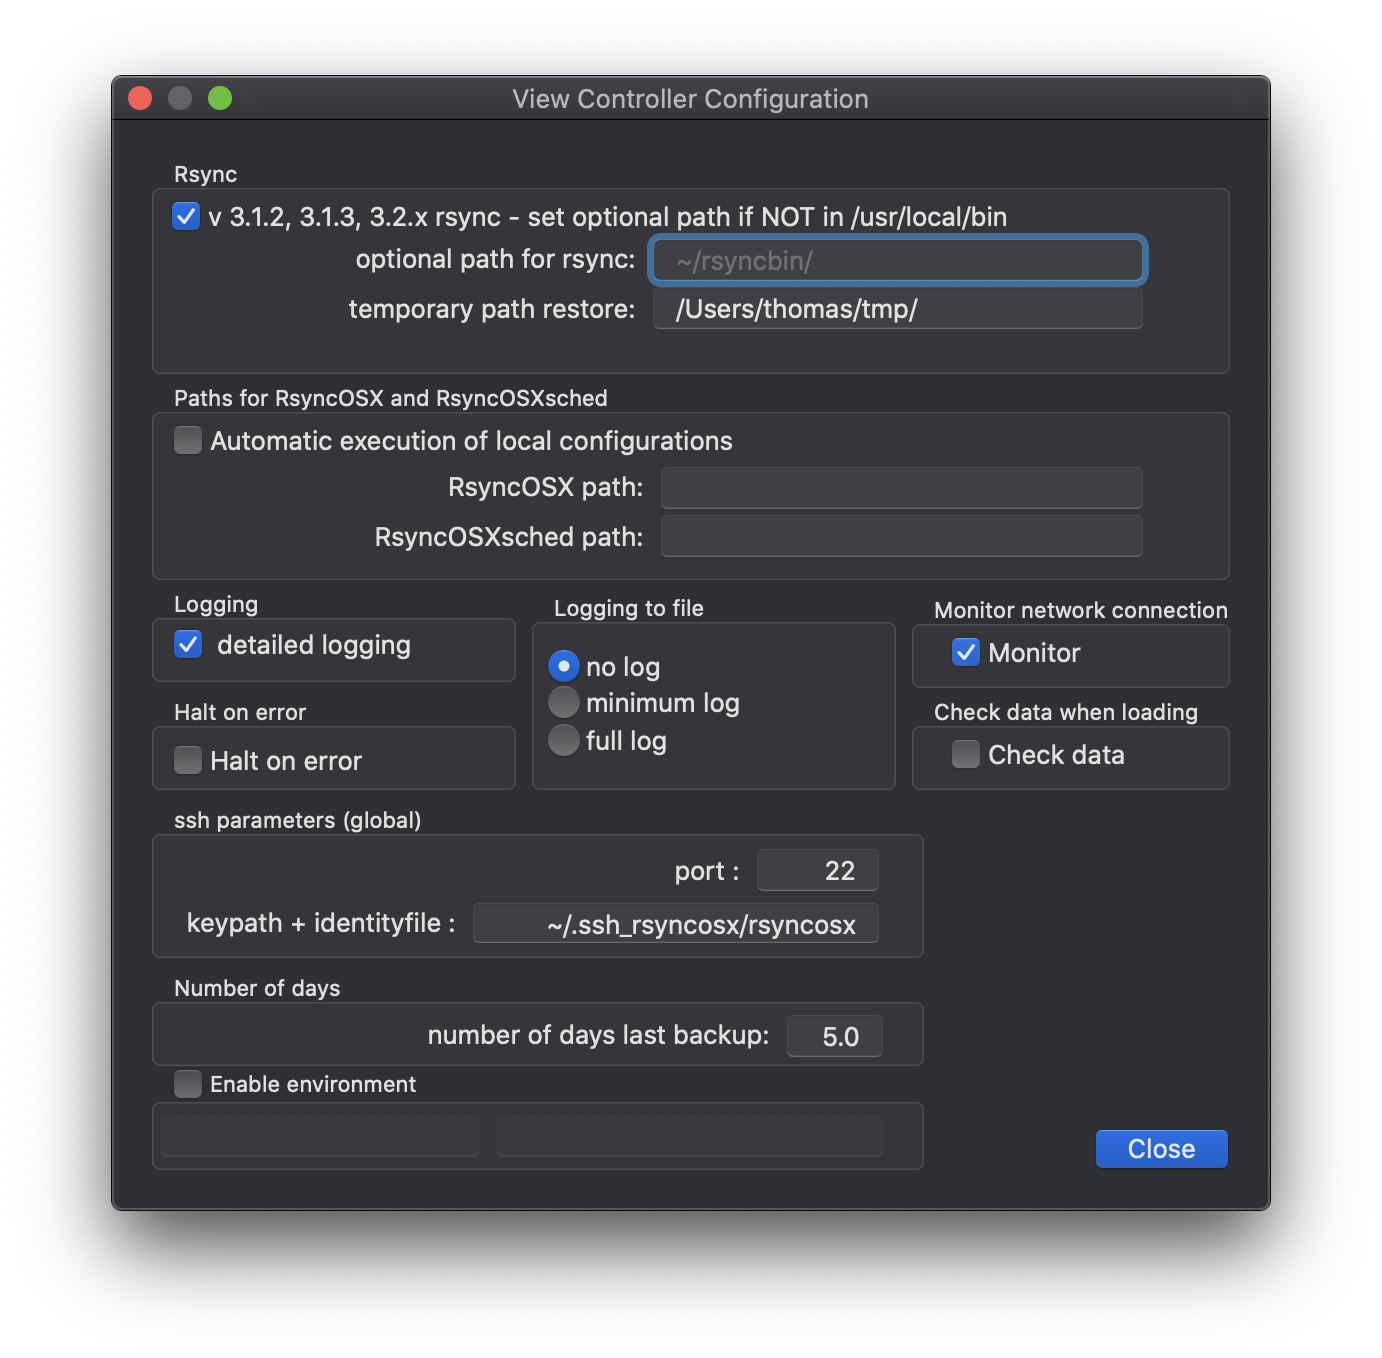
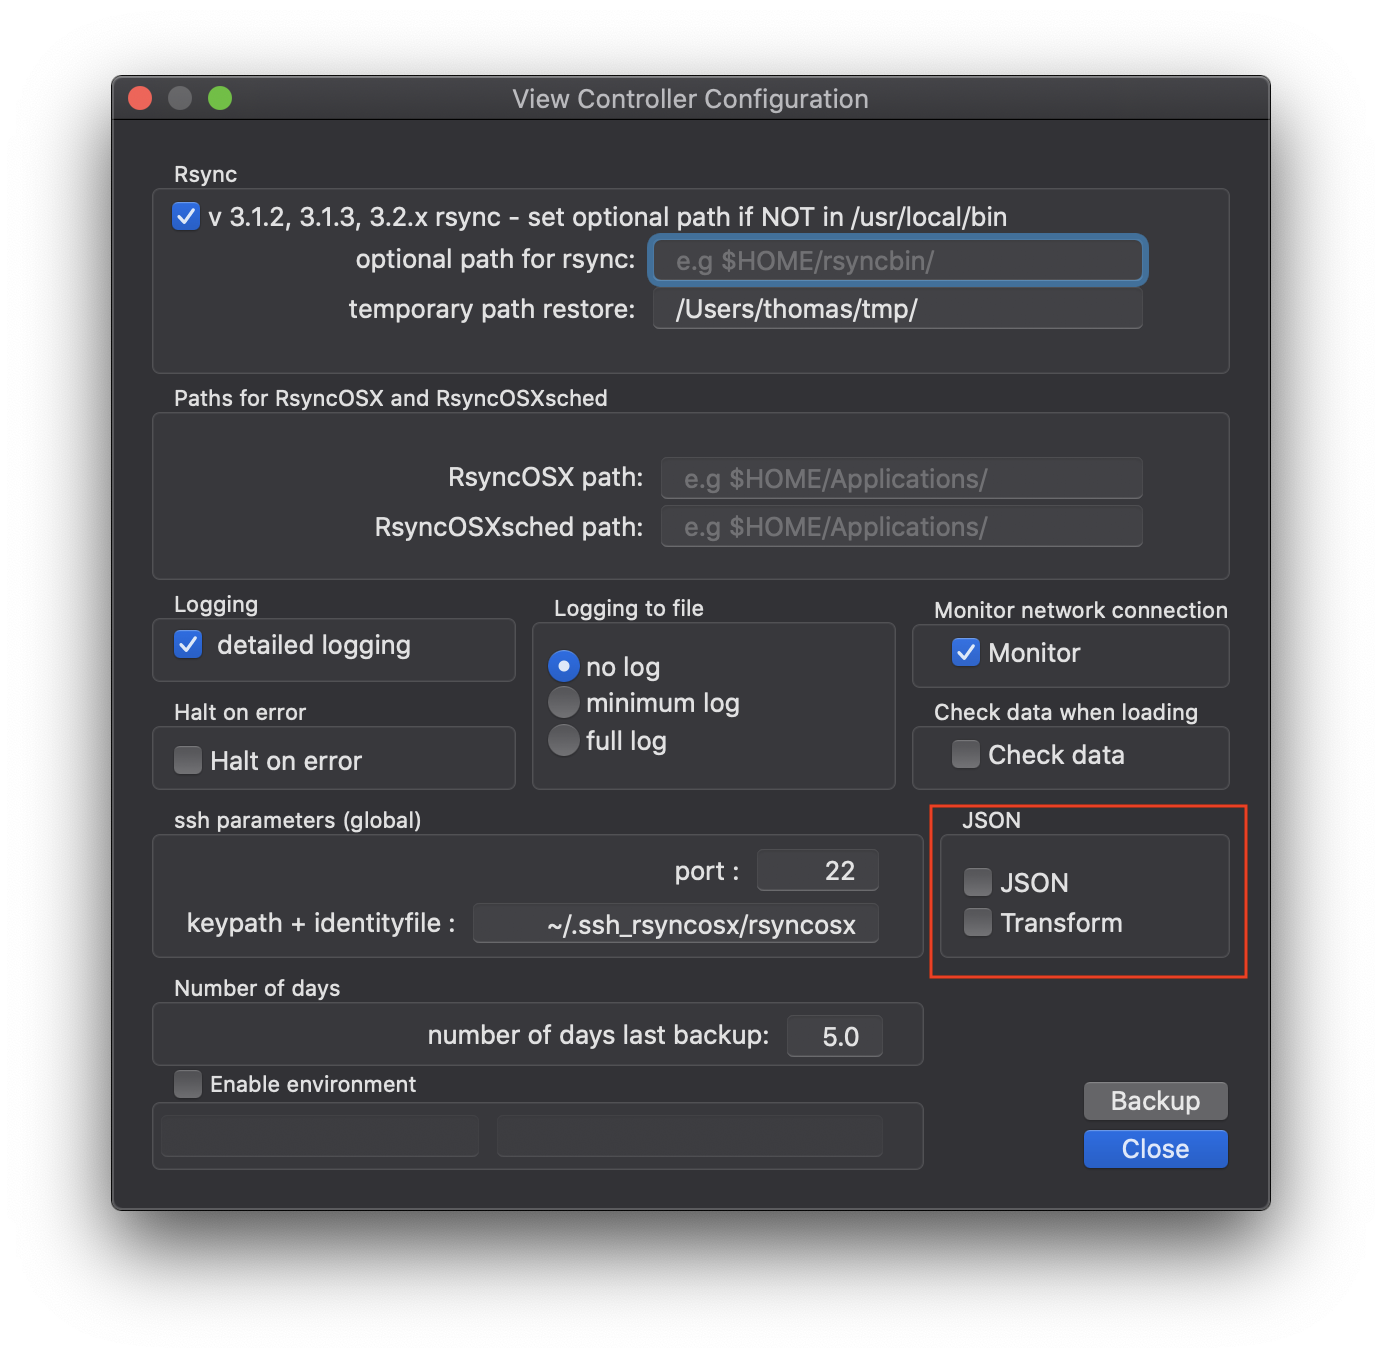
update

diff --git a/content/post/configfiles.md b/content/post/configfiles.md
@@ -5,20 +5,23 @@ title =  "RsyncOSX config files"
 tags = ["config file"]
 categories = ["general information"]
 description = "Where does RsyncOSX stores the various configuration files."
+lastmod = "2020-10-23"
 +++
-RsyncOSX stores its configurations, schedules, log records and user configuration as [property list files](https://en.wikipedia.org/wiki/Property_list). There are three kinds of configuration files.
+RsyncOSX stores its configurations, schedules and log records either as [property list files](https://en.wikipedia.org/wiki/Property_list) or [JSON](https://en.wikipedia.org/wiki/JSON) files. Default format is property list files, the user can change [the format to JSON](/post/json/).
 
-Existing users can choose to move configuration files to new localization. In the About the used path for configuration files is shown.
+The storage of config files is default in `$HOME/.rsyncosx/macserialnumber`. Existing users of previous versions of RsyncOSX can move configfiles from old localization (`Documents/Rsync/macserialnumber`) to new by selecting `Move` from the `File` menu of RsyncOSX.
 
-## Version 6.4.5 and future releases
+In the `About` the used path for configuration files is shown.
+
+## Version 6.4.7 and future releases
 
 From version 6.4.5 RsyncOSX all configuration files are store in `$HOME/.rsyncosx/macserialnumber`. RsyncOSX evaluates the computer mac serial number at startup.
 
-## Version 6.4.2 and previous versions
+## Configurations as plist
 
-In version 6.4.2 all configuration files are stored in `Documents/Rsync/macserialnumber`
+The default format is plist:
 
-## Configuration files
+### Configuration files
 
 Default profile stores all configurations in:
 ```
@@ -30,7 +33,7 @@ $HOME/.rsyncosx/macserialnumber/profile/configRsync.plist
 ```
 where `profile` is a sub catalog.
 
-## Schedules and log records
+### Schedules and log records
 
 Default profile stores all Schedules and log records in:
 ```
@@ -40,10 +43,33 @@ If profile is utilized:
 ```
 $HOME/.rsyncosx/macserialnumber/profile/scheduleRsync.plist
 ```
-## User configurations
 
-The user configurations is stored in:
+## Configurations as JSON
+
+The user can [change format to JSON](/post/json/):
+
+### Configuration files
+```
+$HOME/.rsyncosx/macserialnumber/configurations.json
+```
+If profile is utilized:
+```
+$HOME/.rsyncosx/macserialnumber/profile/configurations.json
+```
+### Schedules and log records
+```
+$HOME/.rsyncosx/macserialnumber/macserialnumber/schedules.json
+```
+If profile is utilized:
+```
+$HOME/.rsyncosx/macserialnumber/profile/schedules.json
+```
+
+## User configurations and Assist
+
+The [user configurations](/post/userconfiguration/) and [Assist](/post/addconfigurations/#assist) data are stored as plist in:
 ```
 $HOME/.rsyncosx/macserialnumber/config.plist
+$HOME/.rsyncosx/macserialnumber/assist.plist
 ```
 The user settings applies to all profiles.

diff --git a/content/post/Changelog.md b/content/post/Changelog.md
@@ -5,7 +5,7 @@ date = "2020-04-23"
 description = "Changelog"
 tags = ["rsyncosx"]
 categories = ["changelog"]
-lastmod = "2020-10-01"
+lastmod = "2020-10-23"
 +++
 If you are installing on macOS Catalina or macOS Big Sur and utilize a local version of rsync, execute the rsync utility in a terminal window before using RsyncOSX. There is a process of granting access for the rsync utility before using it by RsyncOSX. MacOS Catalina or macOS Big Sur will also ask permission for accessing your home catalog first time you start RsyncOSX.
 

diff --git a/content/post/UserConfiguration.md b/content/post/UserConfiguration.md
@@ -86,3 +86,7 @@ Enable environment:
 It is possible to enter an environment variable to the process which executes the synchronize task. An example of such is :
 
 `"SSH_AUTH_SOCK": "/Users/username/.gnupg/S.gpg-agent.ssh"`
+
+## JSON
+
+See [JSON support](/post/json/)
